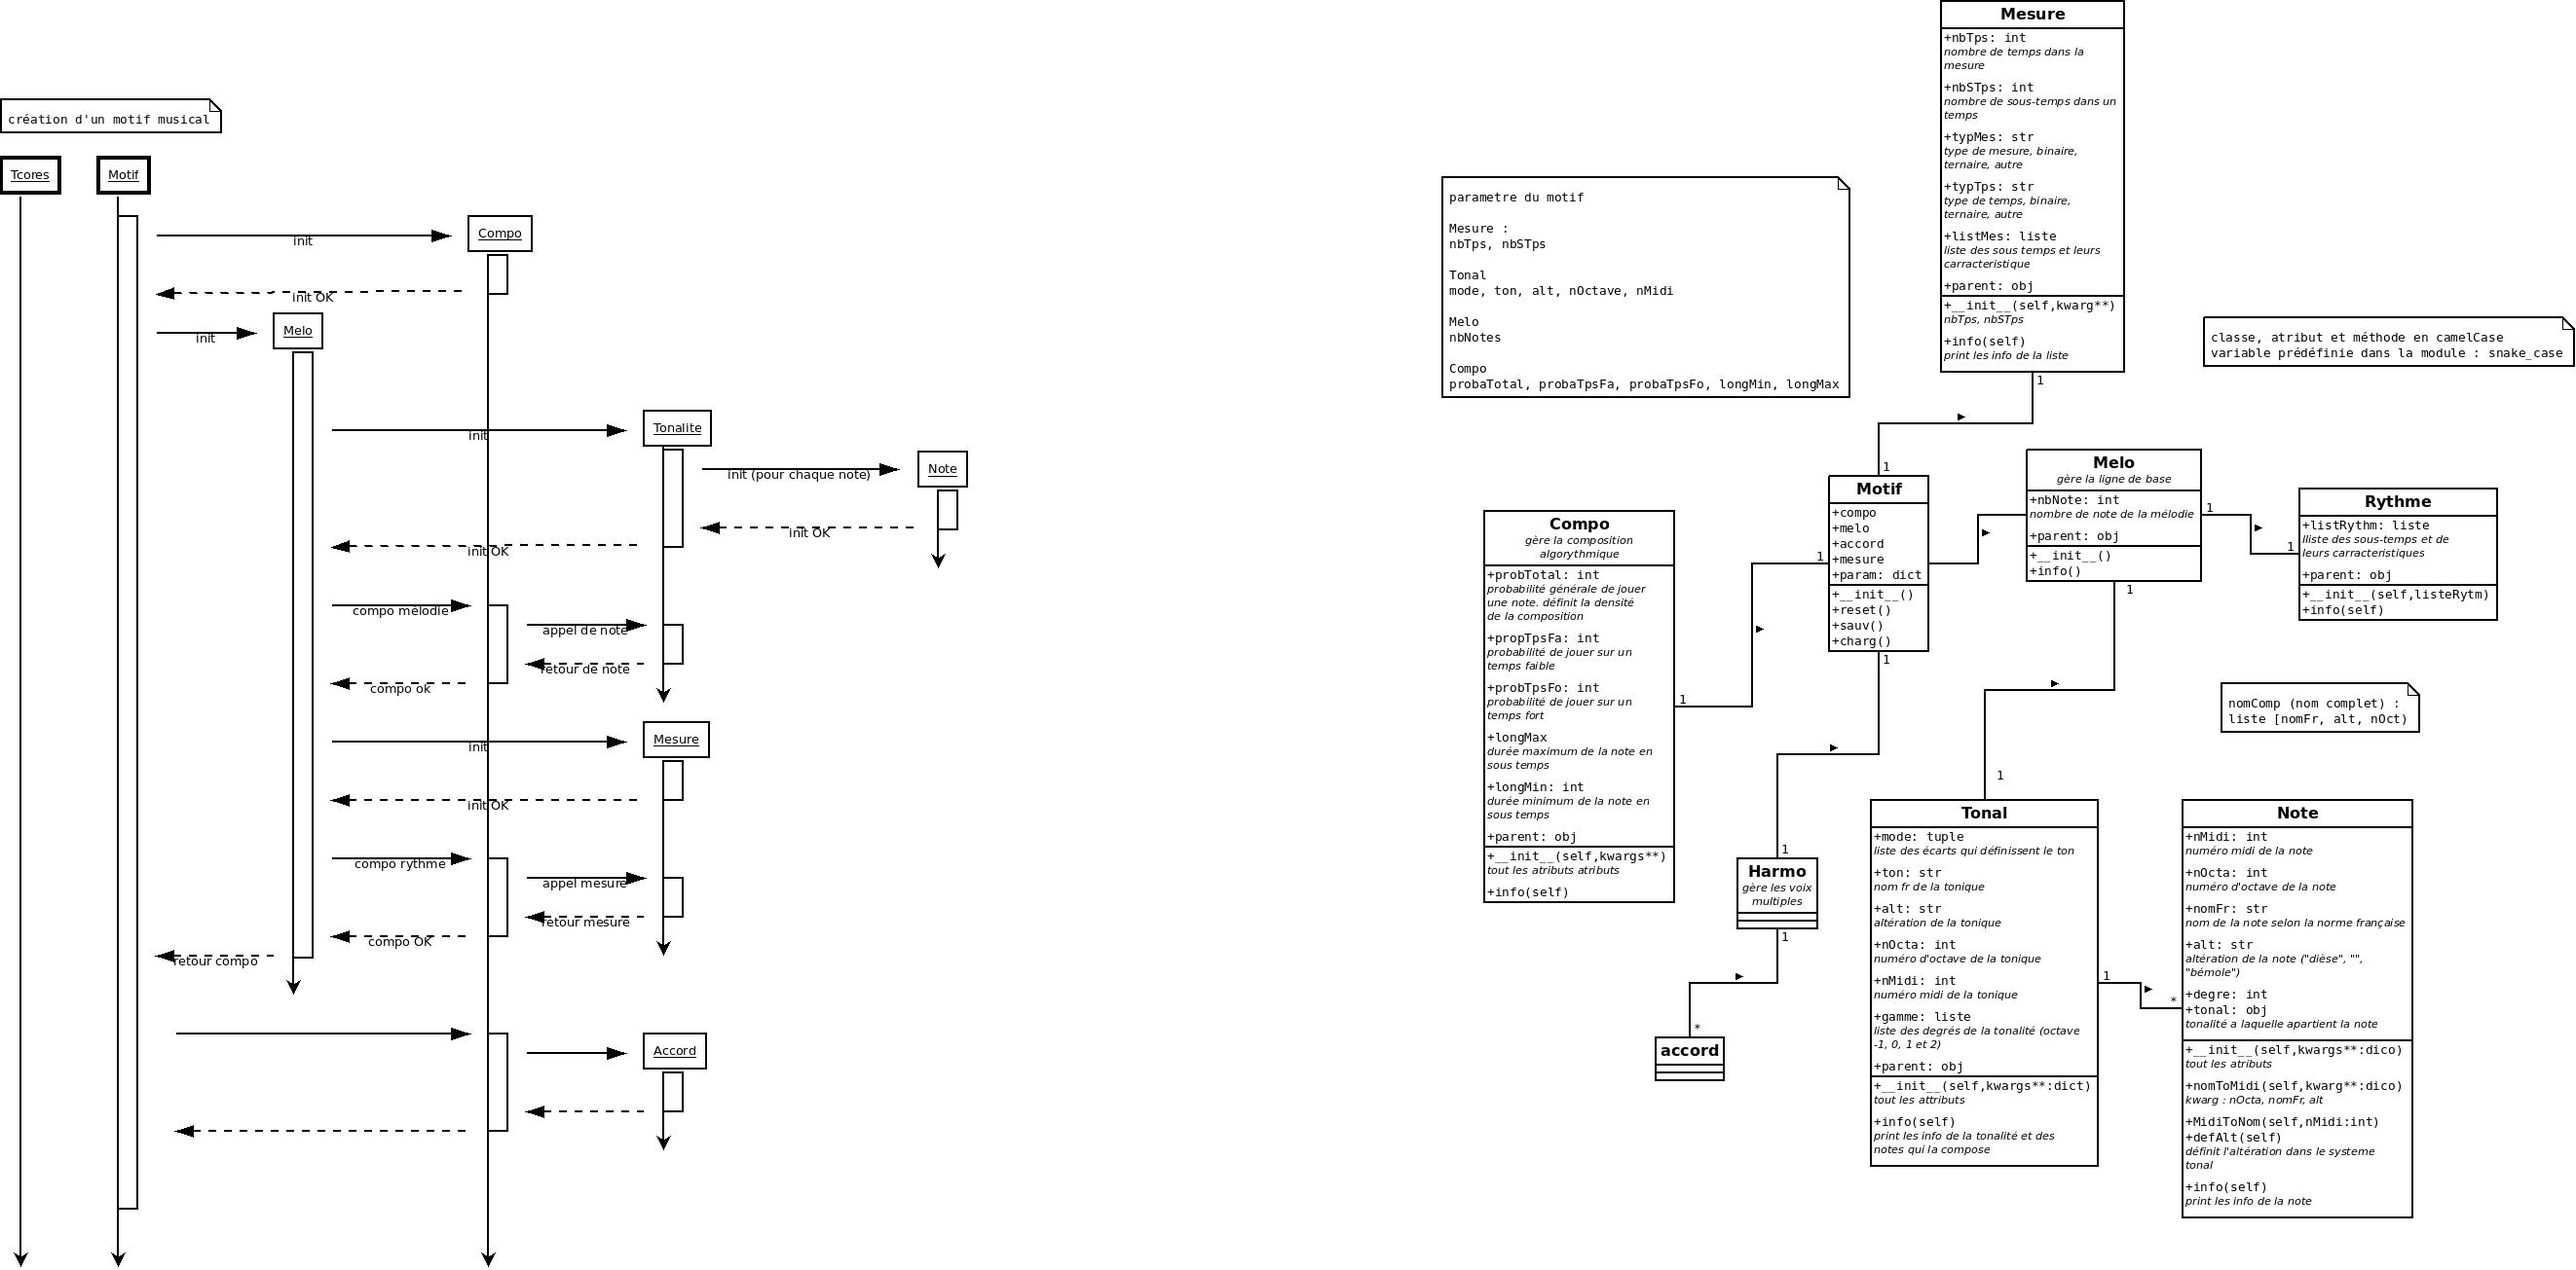
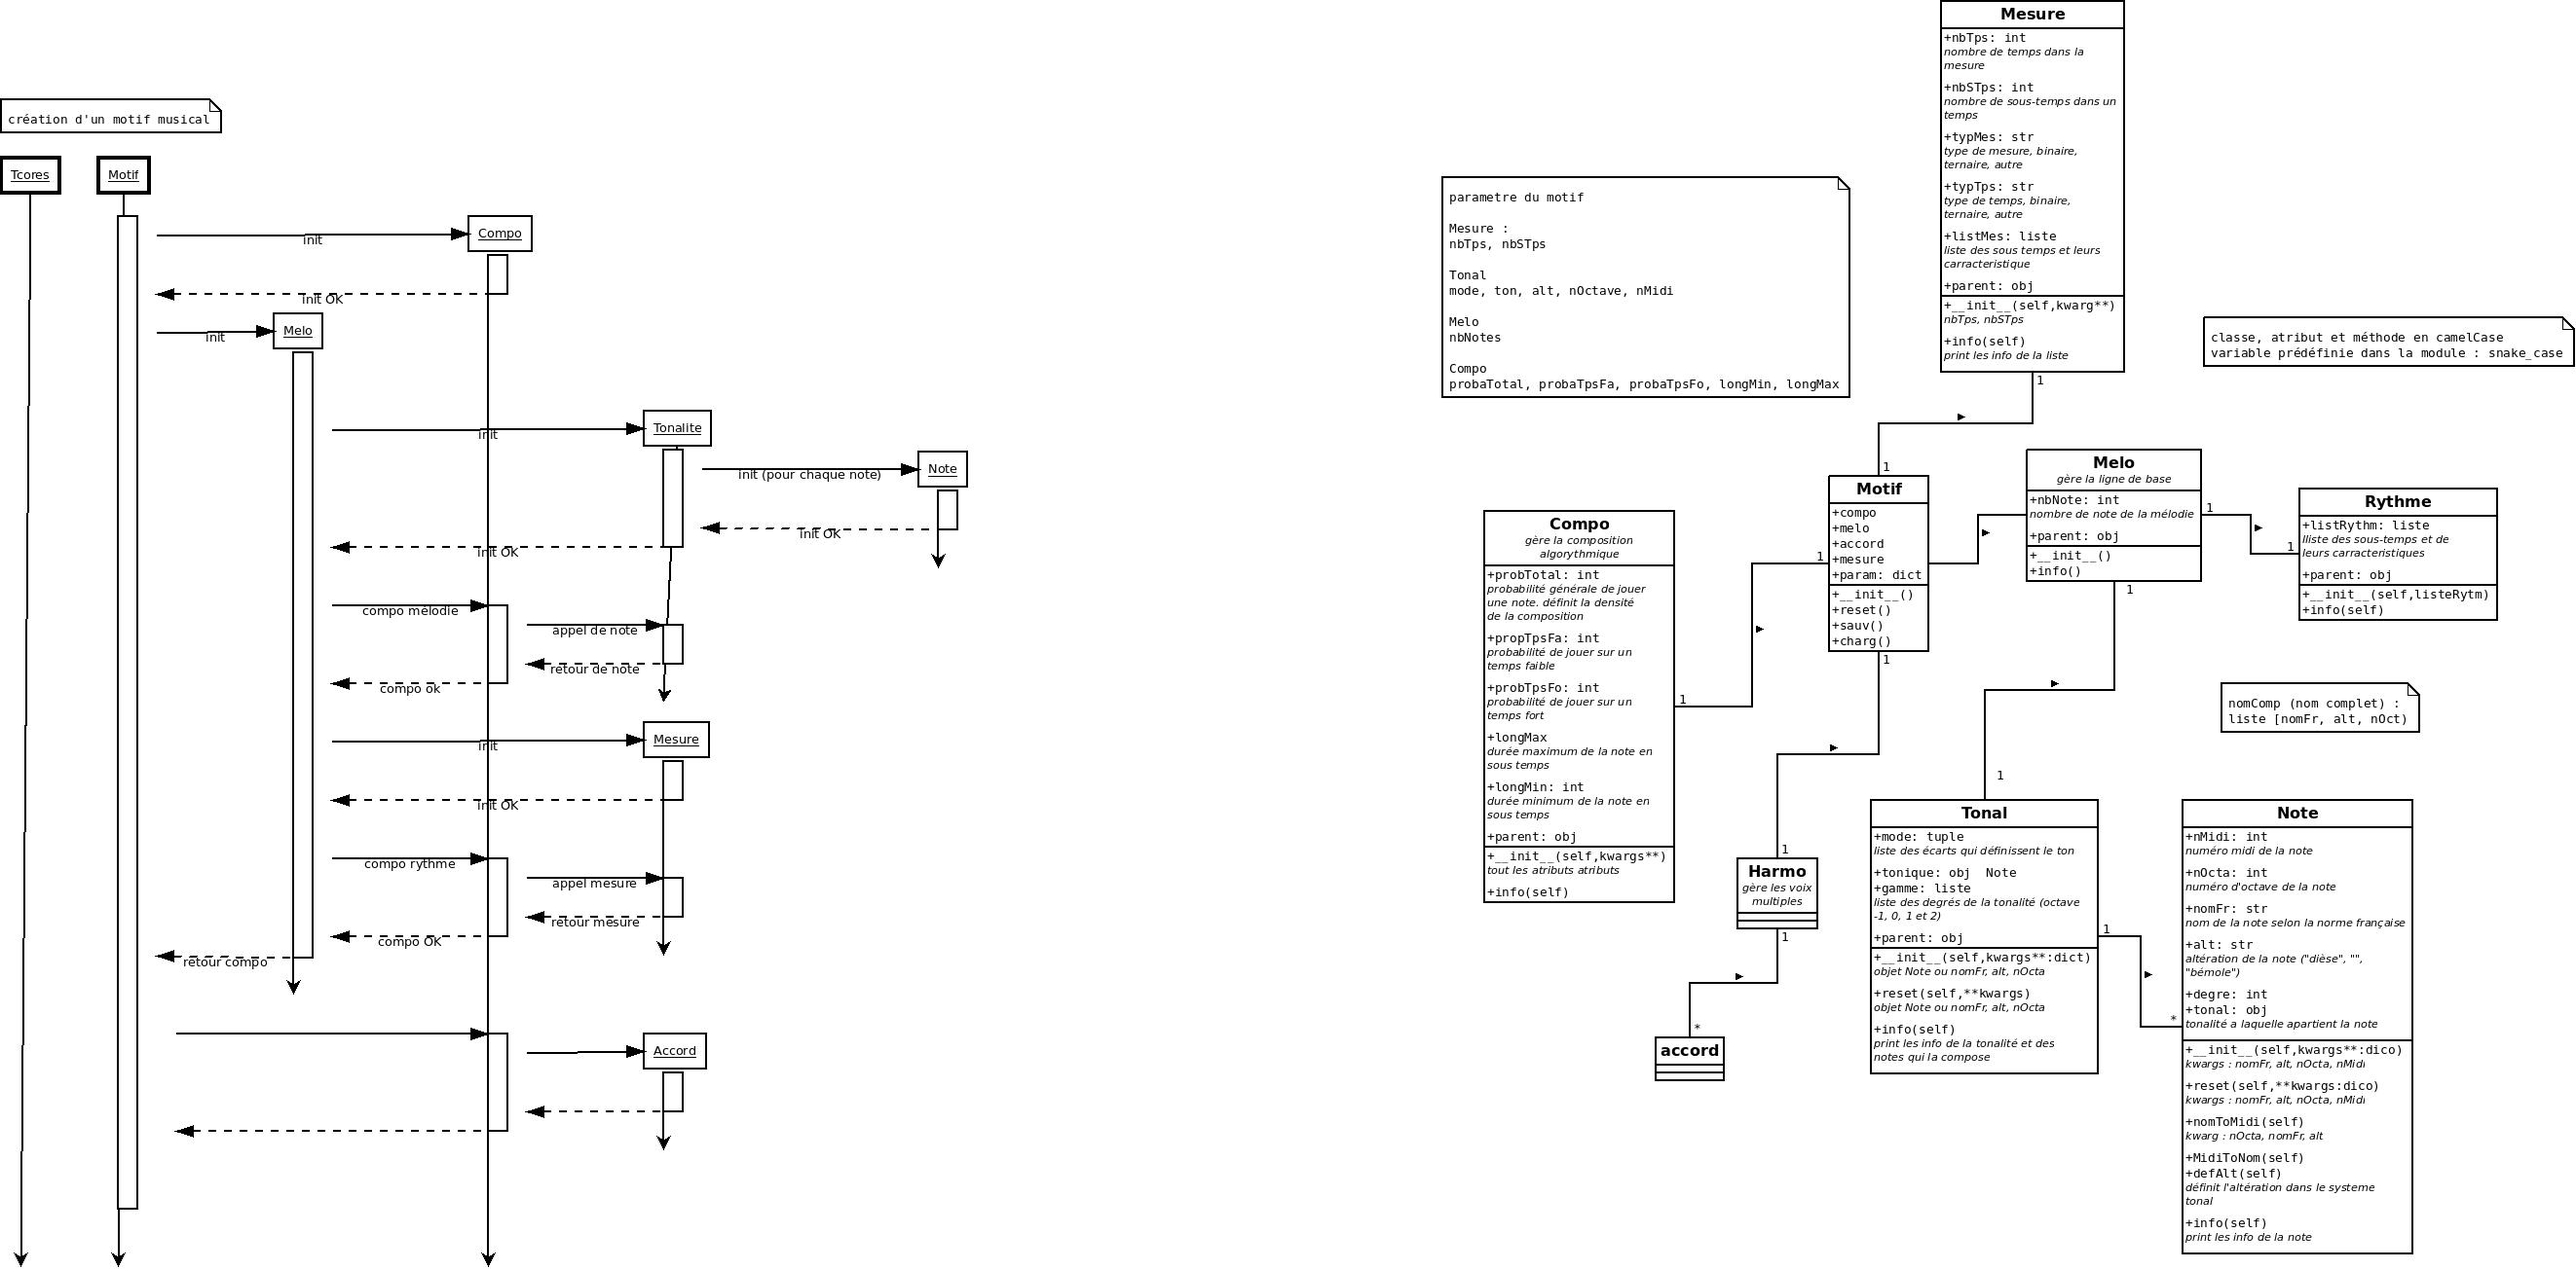
ajout du package solfege et des module TCores, Note et Tonal

diff --git a/solfege/Note.py b/solfege/Note.py
@@ -1,11 +1,14 @@
 #!/usr/bin/env python3
 # -*- coding: utf-8 -*-
 
+from solfege.TCores import TC
+
+
 class Note:
     """Classe définissant une note caractérisée par :
     - _nMidi : son numero midi
     - _nOcta : son numero d'octave
-    - _nomFr : son nom dans la convention française (do, ré, mi, fa)
+    - nomFr : son nom dans la convention française (do, ré, mi, fa)
     - _alt : 'bémole', 'dièse', ''
     - _degre : degré de la note en chiffre arabe
     - _tonal : tonalité parente de la note"""
@@ -17,7 +20,8 @@ class Note:
         self.nOcta = 3
         self.nomFr = "do"
         self.alt = ""
-        self.reset(**kwargs)
+        if len(kwargs) > 0 :
+            self.reset(**kwargs)
 
     def reset(self, **kwargs):
         """définition de la note en fonction des paramètres donné a kwargs"""
@@ -27,16 +31,52 @@ class Note:
                                  +"nMidi. pas les deux en même temps.")
         elif 'nMidi' in kwargs.keys():
             self.nMidi = kwargs.get('nMidi')
-            #self.midiToNom()
+            self.midiToNom()
         else:
             self.nomFr = kwargs.get('nomFr', self.nomFr)
             self.alt = kwargs.get('alt', self.alt)
             self.nOcta = kwargs.get('nOcta', self.nOcta)
-            #self.nomToMidi()
+            self.nomToMidi()
+
+    def midiToNom(self):
+        """permet de générer le nom complet lorsque nMidi a été modifié.
+        - lorsque l'atribut Tcores.systeme = modal : si la note n'est pas juste
+            on lui ajoute un dièse"""
+        ref = TC.tab_nMidi.index(self.nMidi)
+        if TC.tab_nomFr[ref] == '':
+            self.nomFr= TC.tab_nomFr[ref-1]
+            self.alt = 'dièse'
+            self.nOcta = TC.tab_nOcta[ref-1]
+            """le nom devient celui de la note un demi ton en dessous"""
+        else :
+            self.nomFr = TC.tab_nomFr[ref]
+            self.alt = ''
+            self.nOcta = TC.tab_nOcta[ref]
+
+    def nomToMidi(self):
+        """défini le numéro midi, prend un objet solfege.Note en argument ou un
+        tupple 0 : nomFr / 1 : alteration / 2 : octave"""
+        for i in range(len(TC.tab_nOcta)):
+            if TC.tab_nOcta[i] == self.nOcta:
+                if TC.tab_nomFr[i] == self.nomFr:
+                    ref = TC.tab_nMidi[i]
+                    if self.alt == 'dièse':
+                        ref = ref + 1
+                    if self.alt == 'bémole':
+                        ref = ref - 1
+                    self.nMidi = TC.tab_nMidi[ref]
 
     def info(self):
         """print les info de la note"""
         print(str(self.degre)+' Midi = '+str(self.nMidi)+" / "+\
                     self.nomFr+' '+self.alt+' '+str(self.nOcta))
 
-
+    def defAlt(self):
+        """obtenir l'altération d'un degré"""
+        ref = TC.tab_nMidi.index(self.nMidi)
+        if TC.tab_nomFr[ref] == self.nomFr :
+            self.alt = ''
+        elif TC.tab_nomFr[ref+1] == self.nomFr :
+            self.alt = 'bémole'
+        elif TC.tab_nomFr[ref-1] == self.nomFr :
+            self.alt = 'dièse'

diff --git a/solfege/__init__.py b/solfege/__init__.py
@@ -1,5 +1,12 @@
 #!/usr/bin/env python3
 # -*- coding: utf-8 -*-
 
+
+
+
+
+
 from solfege.Note import Note
+from solfege.Tonal import Tonal
+
 
